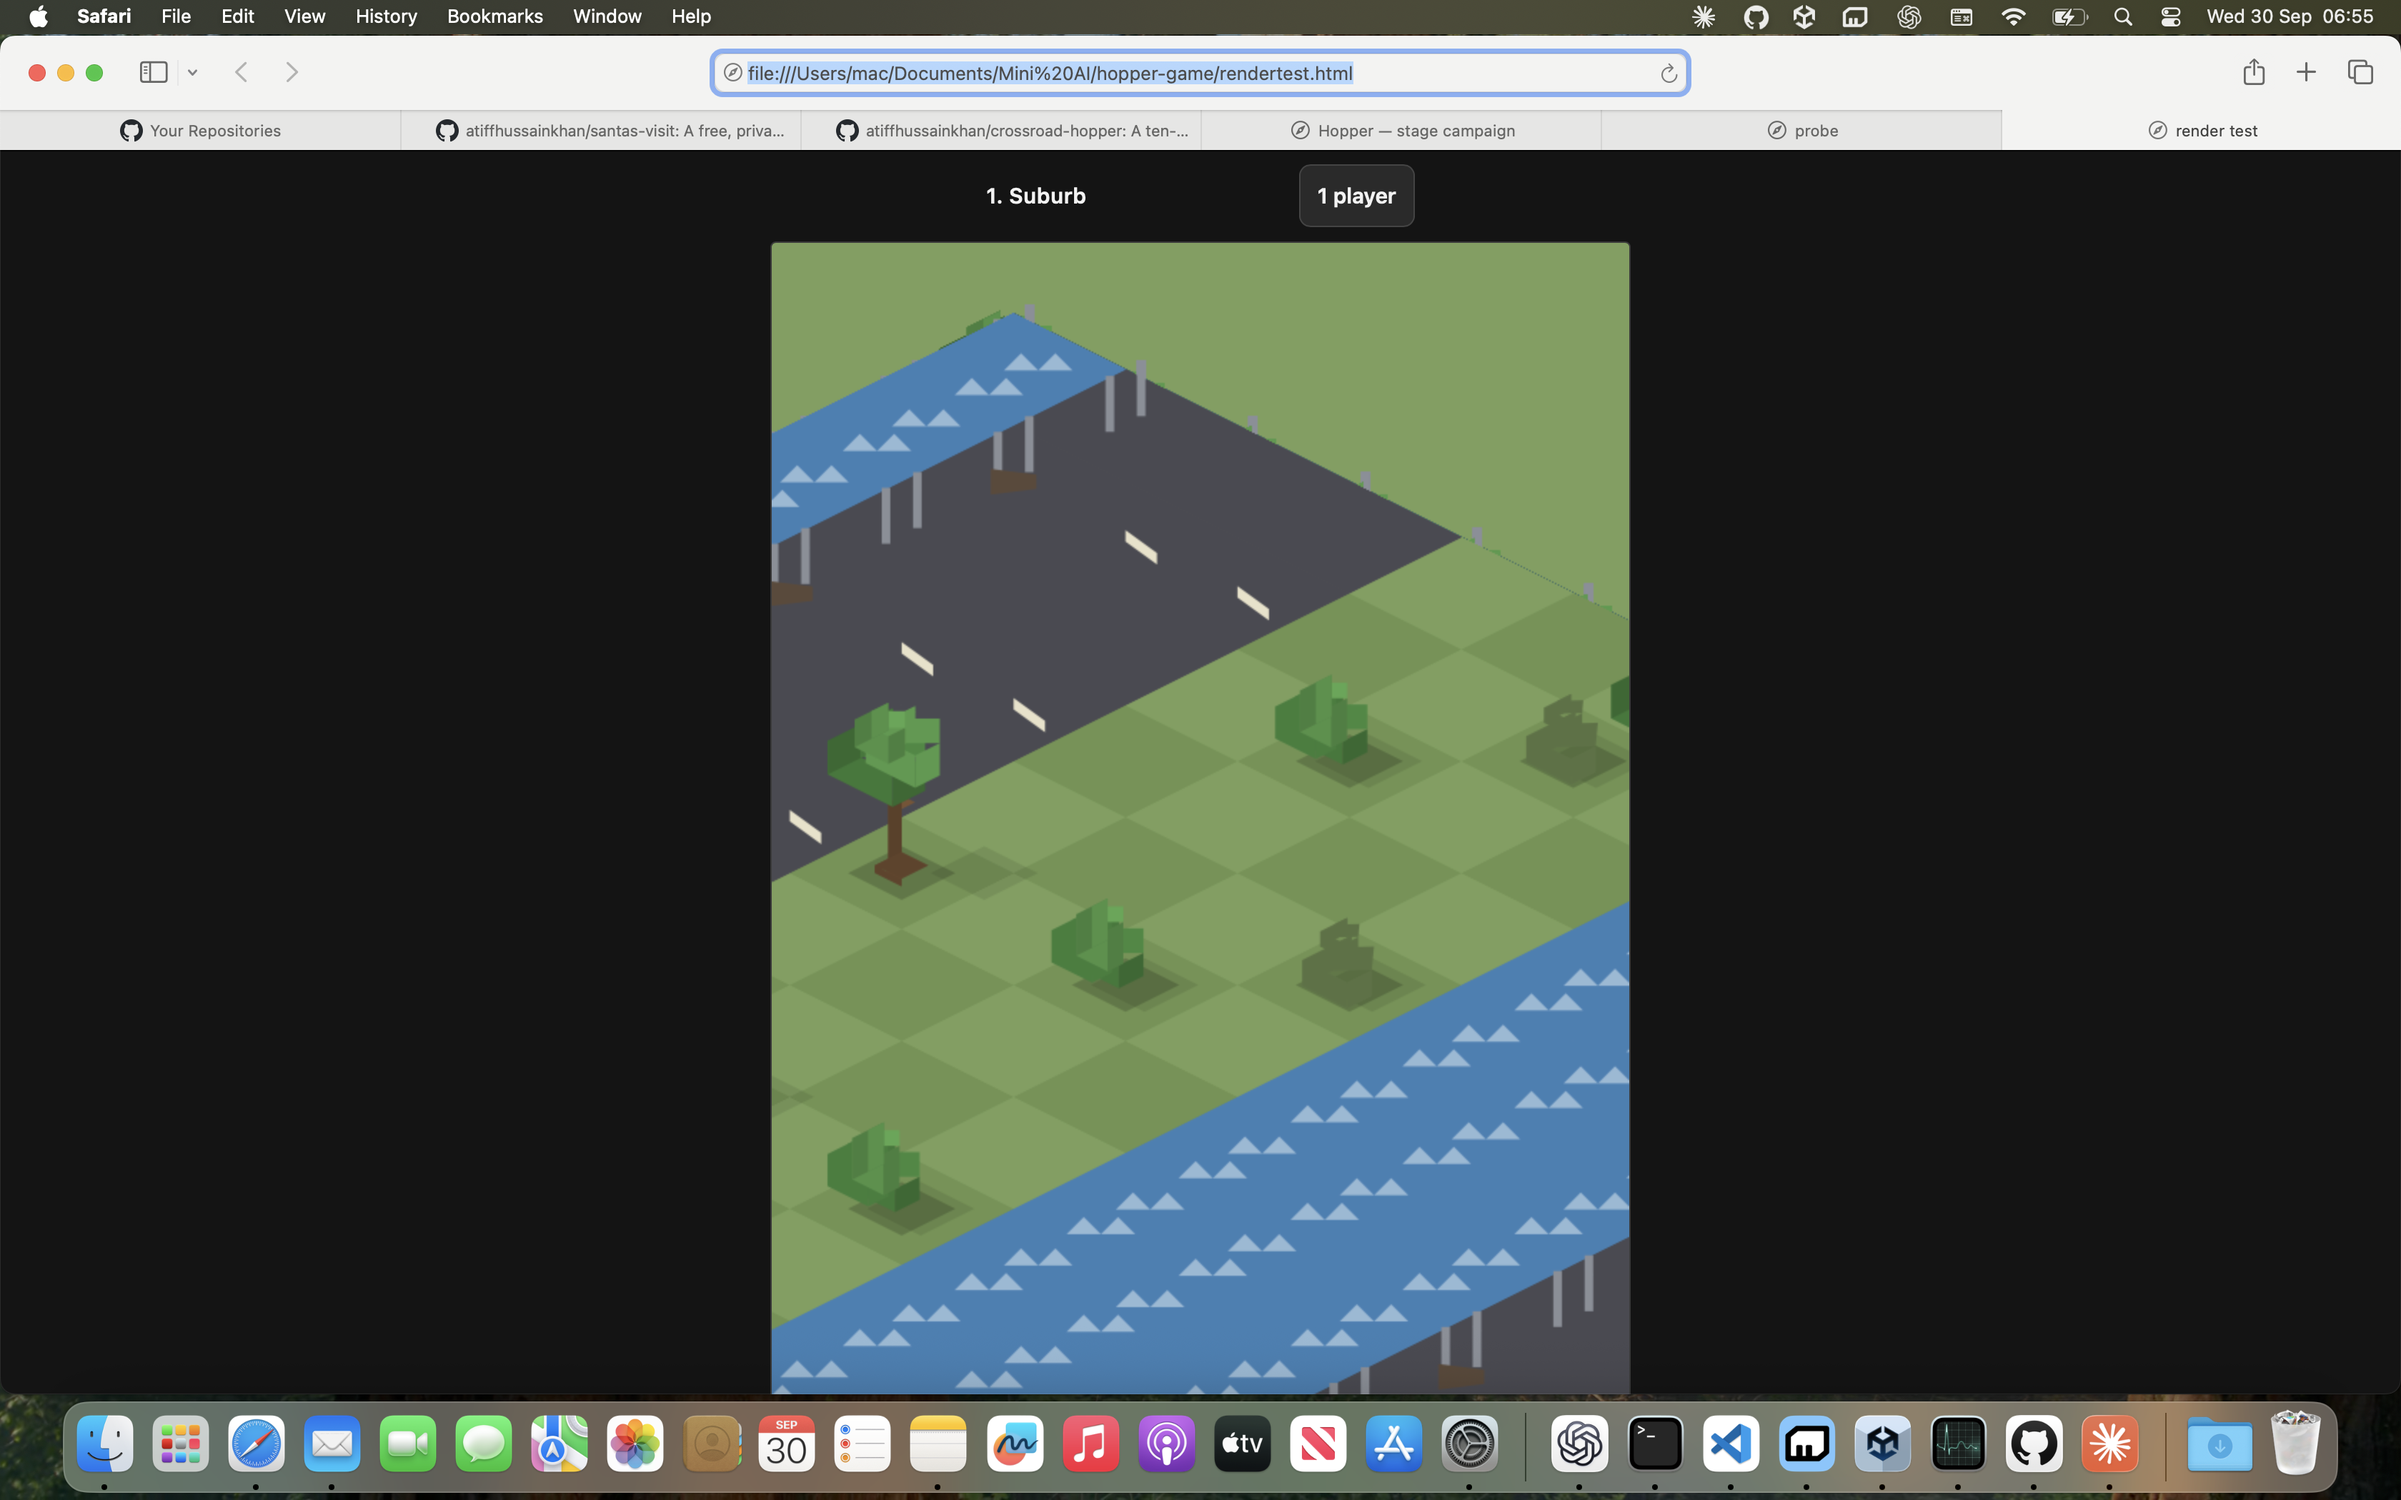
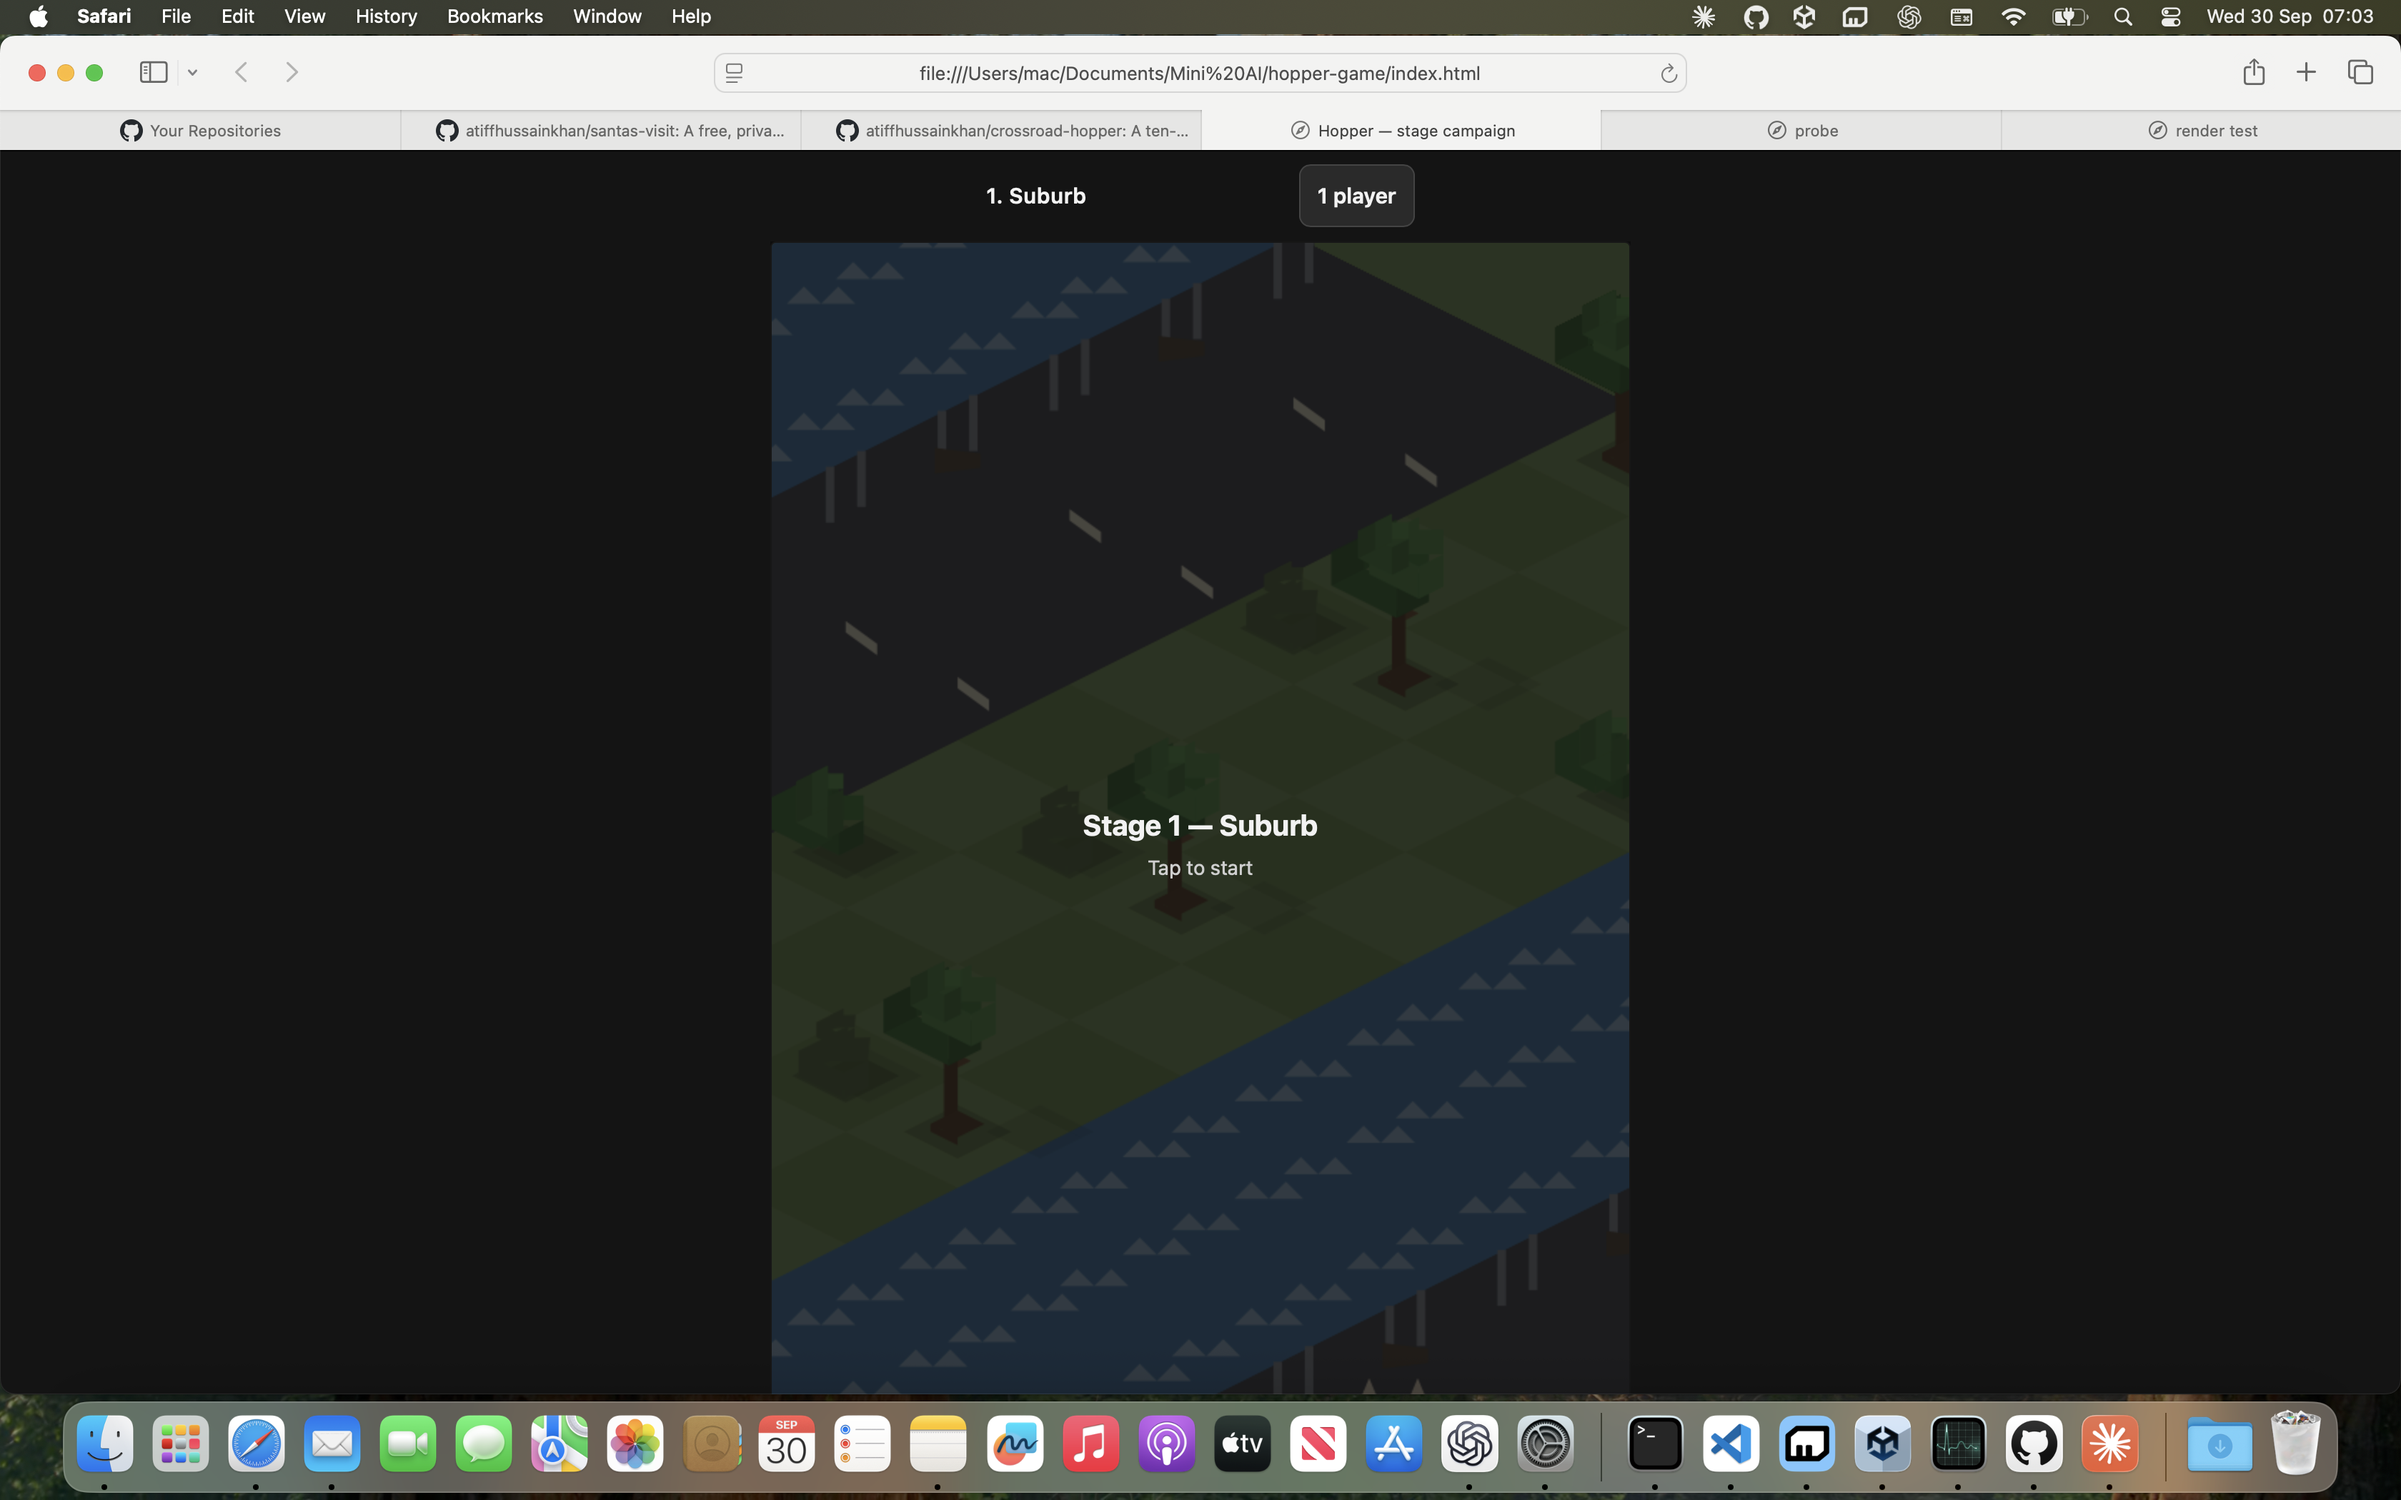
Make the player visible: fix a double-offset that drew it off-canvas
Verified by screenshot in Safari with the display kept awake.

The player was invisible in every browser render. main.js called
ctx.translate() with an ALREADY-PROJECTED screen coordinate and then
called drawCharacter at (0,0), which projected AGAIN through Iso.projectS
and added the board offset a second time. The character was drawn at
roughly twice the board offset, which is off the canvas entirely. The
transform is now DPR-only and the character is drawn at its true world
cell, exactly as the board is.

The camera now FOCUSES on the player's own cell rather than centring the
board's bounding box, so the character sits where the thumb is instead of
wherever the projection happens to drop it.

Density and speed are now a real trade-off, because the hazard time unit
is finally correct. Cars visible enough to matter: density 0.16, 1% of
campaigns complete. Cars survivable: density 0.09, 12% complete. Neither
is acceptable and the campaign gate is left RED at 12% rather than tuned
by guessing. The balance is unfinished work.

Five gates green, one red, and the red one is honest.

Changed region(s): [[0.3125, 0.1548, 0.6875, 0.9905], [0.2812, 0.031, 0.7188, 0.0929], [0.9062, 0.0619, 0.9375, 0.0929]]

diff --git a/src/main.js b/src/main.js
@@ -85,14 +85,17 @@
     // Python preview cannot diverge visually.
     var anchor = s.players[Math.min(s.activePlayer, s.players.length - 1)].state();
     var topRow = Math.max(0, anchor.row - 3);
-    // Slide the view so the player's own column is bottom-centre.
-    var colCentre = Math.max(0, anchor.col - Math.round((W / 42) / 2 - 1));
+    // The camera focuses on the player's own cell; the view slides so the
+    // character sits at the bottom-centre of the frame.
+    var colCentre = 0;
     Scene.renderScene(ctx, sceneFor(stage), {
       width: W, height: H,
       cols: Math.max(5, Math.round(W / 42)),
       viewRows: Math.max(7, Math.round(H / 34)),
       row0: topRow,
       col0: colCentre,
+      focusCol: anchor.col,
+      focusRow: anchor.row,
       hazards: s.hazards,
     });
 
@@ -105,14 +108,18 @@
       if (!ps.alive) continue;
       var who = (typeof Roster !== "undefined" && Roster.ROSTER)
         ? Roster.ROSTER[i % Roster.ROSTER.length] : null;
-      // The board is centred on the player's own column, so draw every player
-      // at its true (col, row) and let the projection place it.
-      var here = Iso.projectS(ps.col, ps.row, 0);
-      var mid = Iso.projectS((s.players.length - 1) / 2, ps.row, 0);
+      // Draw the character at its TRUE world position and let the projection
+      // place it, exactly as the board is drawn.
+      //
+      // The previous version called ctx.translate() with an already-projected
+      // screen coordinate and then called drawCharacter at (0,0), which
+      // projected AGAIN and added the board offset a second time. The player
+      // was drawn at roughly twice the board offset, which is off the canvas
+      // entirely -- so the game rendered with no visible character at all.
       ctx.save();
-      ctx.translate(here[0] + (W / 2 - mid[0]), here[1]);
-      ctx.scale(dpr * 0.9, dpr * 0.9);
-      CharacterRenderer.drawCharacter(ctx, 0, 0, 0.9, who || undefined);
+      ctx.setTransform(dpr, 0, 0, dpr, 0, 0);   // DPR only: no extra offset
+      ctx.scale(1.45, 1.45);
+      CharacterRenderer.drawCharacter(ctx, ps.col, ps.row, 0.95, who || undefined);
       ctx.restore();
     }
 

diff --git a/src/render/iso.js b/src/render/iso.js
@@ -93,7 +93,8 @@
     return [p[0] * VIEW.scale + VIEW.ox, p[1] * VIEW.scale + VIEW.oy];
   }
 
-  function frameViewWindow(cols, viewRows, width, height, row0, zmax, margin, biasY, zoom, col0) {
+  function frameViewWindow(cols, viewRows, width, height, row0, zmax, margin, biasY, zoom,
+                          col0, focusCol, focusRow) {
     zmax = zmax || 0; margin = margin || 20; biasY = biasY === undefined ? 0.54 : biasY;
     zoom = zoom || 1;
     var xs = [], ys = [];
@@ -113,6 +114,15 @@
     var scale = (height - margin * 2) / bh * zoom;
     var maxScale = (width - margin) / (TILE_W * 1.2);
     if (scale > maxScale) scale = maxScale;
+    // Focus the camera on a specific cell when asked. Fitting the whole
+    // board's bounding box leaves the player wherever the projection happens
+    // to put it; a game camera has to put the player where the thumb is.
+    if (focusCol !== null && focusCol !== undefined) {
+      var fp = project(focusCol - (col0 || 0), focusRow, 0);
+      setView(width / 2 - fp[0] * scale,
+              height * biasY - fp[1] * scale, scale, col0);
+      return;
+    }
     setView(width / 2 - (minx + maxx) / 2 * scale,
             height * biasY - (miny + maxy) / 2 * scale, scale, col0);
   }

diff --git a/src/hazards.js b/src/hazards.js
@@ -38,7 +38,7 @@
     var sp = spec.speed[0] + (spec.speed[1] - spec.speed[0]) * rng.next();
     // Difficulty raises the ceiling only. The floor never drops, so stage one
     // is never faster than its slowest vehicle.
-    sp *= 1 + Math.min(difficulty, 12) * 0.016;
+    sp *= 1 + Math.min(difficulty, 12) * 0.020;
     return {
       kind: kind, spec: spec, row: row, dir: dir,
       speed: sp * dir,
@@ -55,7 +55,7 @@
     var out = [];
     // Density ramps with difficulty but never reaches 1: a lane that is
     // always occupied is not a puzzle, it is a wall.
-    var density = Math.min(0.22, 0.05 + difficulty * 0.010);
+    var density = Math.min(0.26, 0.09 + difficulty * 0.016);
     for (var r = 0; r < viewRows; r++) {
       var row = row0 + r;
       var k = null;

diff --git a/src/render/scene.js b/src/render/scene.js
@@ -173,8 +173,11 @@
     // runs only when explicitly requested by the offline preview sheet.
     var simHazards = Array.isArray(opts.hazards) ? opts.hazards : null;
     var tall = scene.id === 5 ? 2.3 : 1.5;
-    I.frameViewWindow(cols, viewRows, width, height, row0, tall, 18, 0.46, 1,
-                     opts.col0 || 0);
+    // The camera focuses on the player's own cell, so the character always
+    // sits at the bottom-centre under the thumb rather than wherever the
+    // board's bounding box happens to place it.
+    I.frameViewWindow(cols, viewRows, width, height, row0, tall, 18, 0.72, 1,
+                      opts.col0 || 0, opts.focusCol, opts.focusRow);
 
     var rows = [];
     for (var r = row0; r < row0 + viewRows; r++) rows.push(r);
